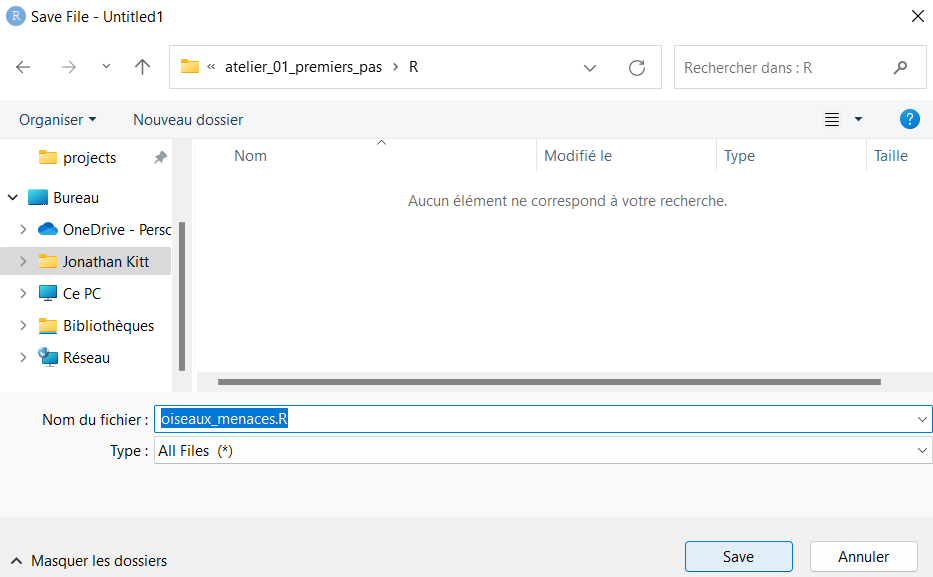
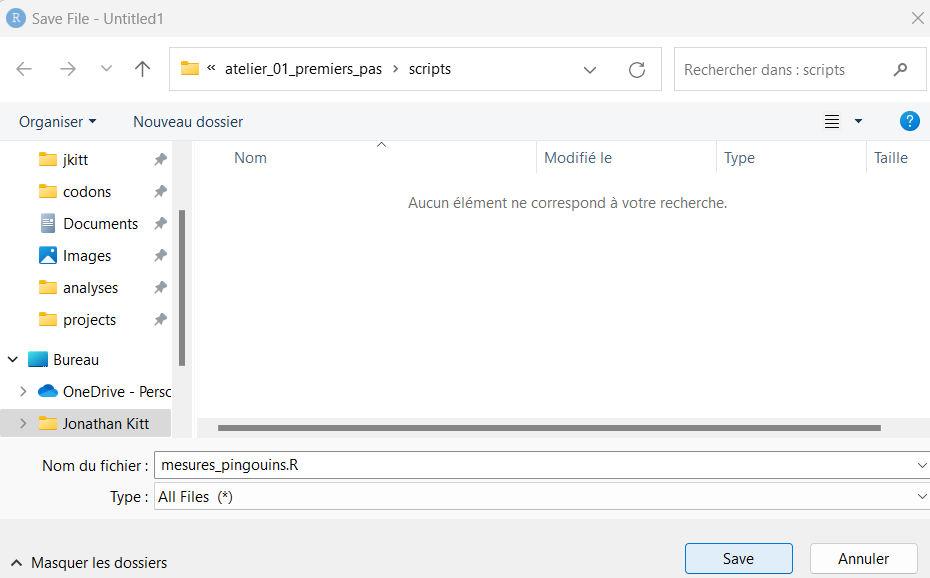
updated post #2

diff --git a/_site/posts/02-premiers-pas-avec-r/index.html b/_site/posts/02-premiers-pas-avec-r/index.html
@@ -120,7 +120,6 @@ code span.wa { color: #60a0b0; font-weight: bold; font-style: italic; } /* Warni
   }
 }</script>
 
-  <script src="https://cdn.jsdelivr.net/npm/mathjax@3/es5/tex-chtml-full.js" type="text/javascript"></script>
 
 <link rel="stylesheet" href="../../styles.css">
 </head>
@@ -541,8 +540,49 @@ Raccourcis clavier : flèche d’assignation
 </div>
 <p>Exécutez cette fonction en plaçant le curseur sur la ligne et en cliquant sur <strong>Run</strong> :</p>
 <p><img src="img/rstudio_11.png" class="img-fluid" style="width:100.0%"></p>
-<p>::: {.callout-tip icon=“true”} ## Raccourcis clavier : exécuter du code</p>
-<p>Pour exécuter une ou plusieurs lignes de code, sélectionnez les lignes et utilisez la combinaison <strong>Ctrl + Entrée</strong> :::Sauvegardez votre script (et pensez à le faire régulièrement !) en cliquant sur l’icône disquette en haut de votre script :</p>
+<div class="callout-tip callout callout-style-default callout-captioned">
+<div class="callout-header d-flex align-content-center">
+<div class="callout-icon-container">
+<i class="callout-icon"></i>
+</div>
+<div class="callout-caption-container flex-fill">
+Raccourcis clavier : exécuter du code
+</div>
+</div>
+<div class="callout-body-container callout-body">
+<p>Pour exécuter une ou plusieurs lignes de code, sélectionnez les lignes et utilisez la combinaison <strong>Ctrl + Entrée</strong></p>
+</div>
+</div>
+<p>Notre environnement contient maintenant un objet <strong>pingouins</strong>, et vous pouvez voir l’indication <code>344 obs. of 9 variables</code> : le jeu de données contient 344 observations (lignes) et 9 variables (colonnes).</p>
+<p><img src="img/rstudio_12.png" class="img-fluid" style="width:100.0%"></p>
+<p>En cliquant sur la flèche bleue à gauche du nom de l’objet, vous aurez accès à plus d’informations :</p>
+<p><img src="img/rstudio_13.png" class="img-fluid" style="width:100.0%"></p>
+<ul>
+<li><strong>Noms des variables</strong> : le tableau contient 9 variables dont les noms sont précédés du signe <strong>$</strong>.</li>
+</ul>
+<div class="callout-tip callout callout-style-default callout-captioned">
+<div class="callout-header d-flex align-content-center">
+<div class="callout-icon-container">
+<i class="callout-icon"></i>
+</div>
+<div class="callout-caption-container flex-fill">
+L’opérateur <strong>$</strong>
+</div>
+</div>
+<div class="callout-body-container callout-body">
+<p>Cet opérateur permet de sélectionner la colonne d’un tableau. Dans la console, tapez <code>pingouins$</code> et appuyez sur <strong>Tab</strong>.</p>
+<p><img src="img/rstudio_15.png" class="img-fluid" style="width:100.0%"> Vous pouvez choisir la variable qui vous intéresse à l’aide des <strong>flèches haut et bas</strong> (<em>Espece</em> par exemple) puis appuyer à nouveau sur <strong>Tab</strong> pour valider. Vous verrez alors s’afficher les 344 observations de cette variable. <img src="img/rstudio_16.png" class="img-fluid" style="width:100.0%"></p>
+</div>
+</div>
+<ul>
+<li><p><strong>Types des variables</strong> : indique s’il s’agit d’une variable de type <strong>caractère (<code>chr</code>)</strong>, d’une variable contenant des <strong>nombres entiers (<code>int</code>)</strong> ou des <strong>nombres décimaux (<code>num</code>)</strong>. Une variable peut également être de type <strong>logique (<code>log</code>)</strong> (<em>TRUE</em> ou <em>FALSE</em>).</p></li>
+<li><p><strong>Premiers éléments de chaque variable</strong>.</p></li>
+</ul>
+<p>Vous pouvez afficher le tableau en cliquant sur l’icône à droite du nom de l’objet dans l’environnement :</p>
+<p><img src="img/rstudio_14.png" class="img-fluid" style="width:100.0%"></p>
+<p>Cela ouvre un nouvel onglet à côté de de votre script :</p>
+<p><img src="img/rstudio_17.png" class="img-fluid" style="width:100.0%"></p>
+<p>Avant d’aller plus loin, sauvegardez votre script en cliquant sur l’icône disquette en haut de votre script :</p>
 <p><img src="img/rstudio_18.png" class="img-fluid" style="width:100.0%"></p>
 <p>Choisissez le dossier où sera sauvegardé votre script - <strong>scripts</strong> dans notre cas, et nommez votre script puis cliquez sur <strong>Save</strong> :</p>
 <p><img src="img/rstudio_19.png" class="img-fluid" style="width:100.0%"></p>
@@ -559,21 +599,6 @@ Raccourcis clavier : sauvegarder un script
 <p>Pour sauvegarder un script, uilisez la combinaison <strong>Ctrl + S</strong></p>
 </div>
 </div>
-<p>Notre environnement contient maintenant un objet <strong>oiseaux</strong>, et vous pouvez voir l’indication <code>172 obs. of 4 variables</code> : le jeu de données contient 172 observations (lignes) et 4 variables (colonnes).</p>
-<p><img src="img/rstudio_12.png" class="img-fluid" style="width:100.0%"></p>
-<p>En cliquant sur la flèche bleue à gauche du nom de l’objet, vous aurez accès à plus d’informations :</p>
-<p><img src="img/rstudio_13.png" class="img-fluid" style="width:100.0%"></p>
-<p><strong>Nom des variables</strong> : le tableau contient 4 variables nommées <em>description</em>, <em>categorie</em>, <em>nom_francais</em> et <em>nom_latin</em>. Le signe <span class="math inline">\(** devant les noms de variables indique qu'il s'agit de colonnes : l'opérateur dollar permet de sélectionner une colonne dans un tableau. Essayez en tapant dans la console **oiseaux\)</span> et appuyez sur <strong>Tab</strong> :</p>
-<p><img src="img/rstudio_15.png" class="img-fluid" style="width:100.0%"></p>
-<p>Choisissez la première colonne <em>description</em> et appuyez sur <strong>Tab</strong> : vous verrez s’afficher les 172 observations de la colonne en question :</p>
-<p><img src="img/rstudio_16.png" class="img-fluid" style="width:100.0%"></p>
-<p><strong>Type de variable</strong> : à la suite du nom de variable, <strong>chr</strong> indique qu’il s’agit d’une variable de type caractère. D’autres types de variables fréquemment rencontrés sont les variables <strong>numériques</strong> (nombres entiers ou décimaux) et les variables <strong>logiques</strong> (vrai ou faux).</p>
-<p><strong>Premiers éléments de chaque variable</strong> : à la suite du type de variable, vous pouvez voir les premiers éléments de chacune des variables.</p>
-<p>Vous pouvez afficher le tableau en cliquant sur l’icône à droite :</p>
-<p><img src="img/rstudio_14.png" class="img-fluid" style="width:100.0%"></p>
-<p>Cela ouvre un nouvel onglet à côté de de votre script :</p>
-<p><img src="img/rstudio_17.png" class="img-fluid" style="width:100.0%"></p>
-<p>Il est important de sauvegarder régulièrement votre script pour ne pas perdre votre travail.</p>
 
 
 </section>
